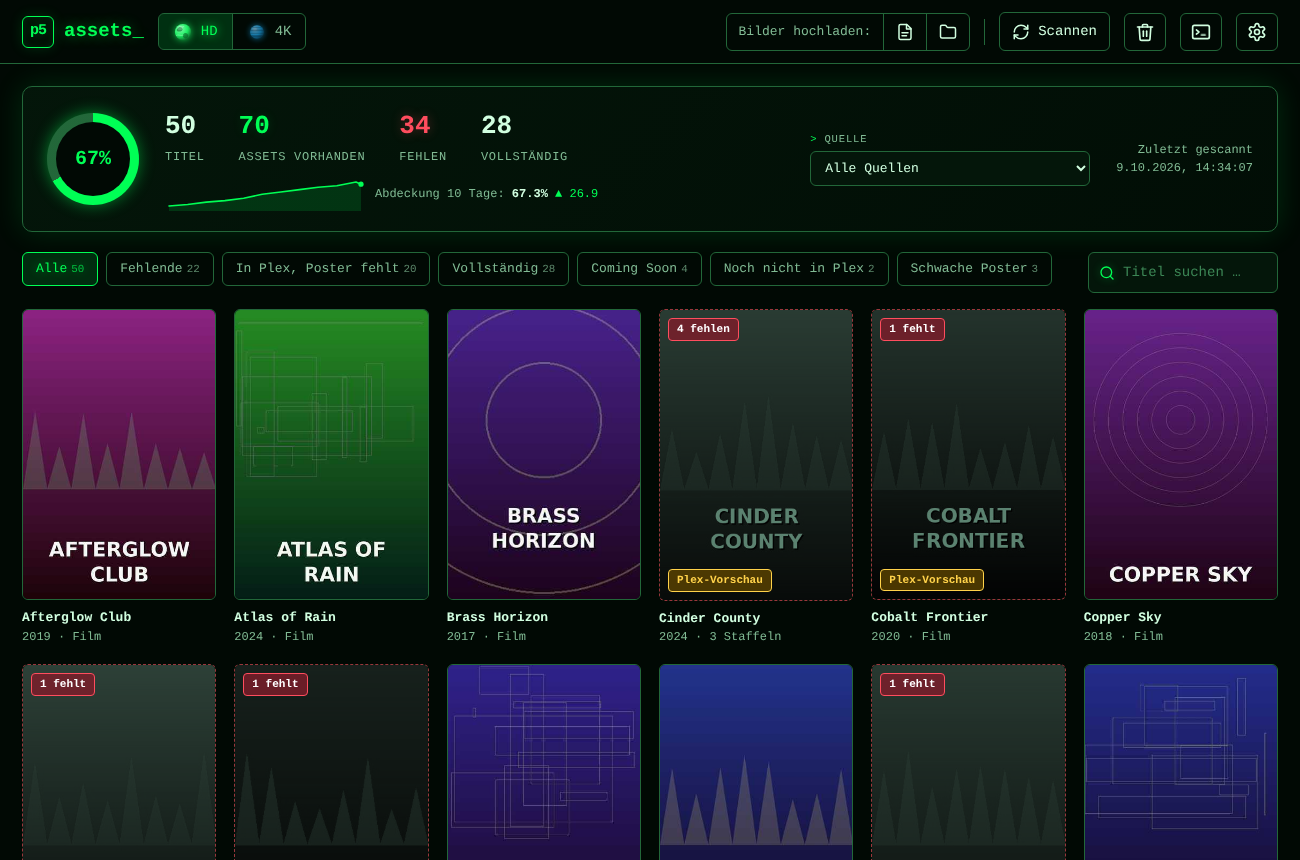
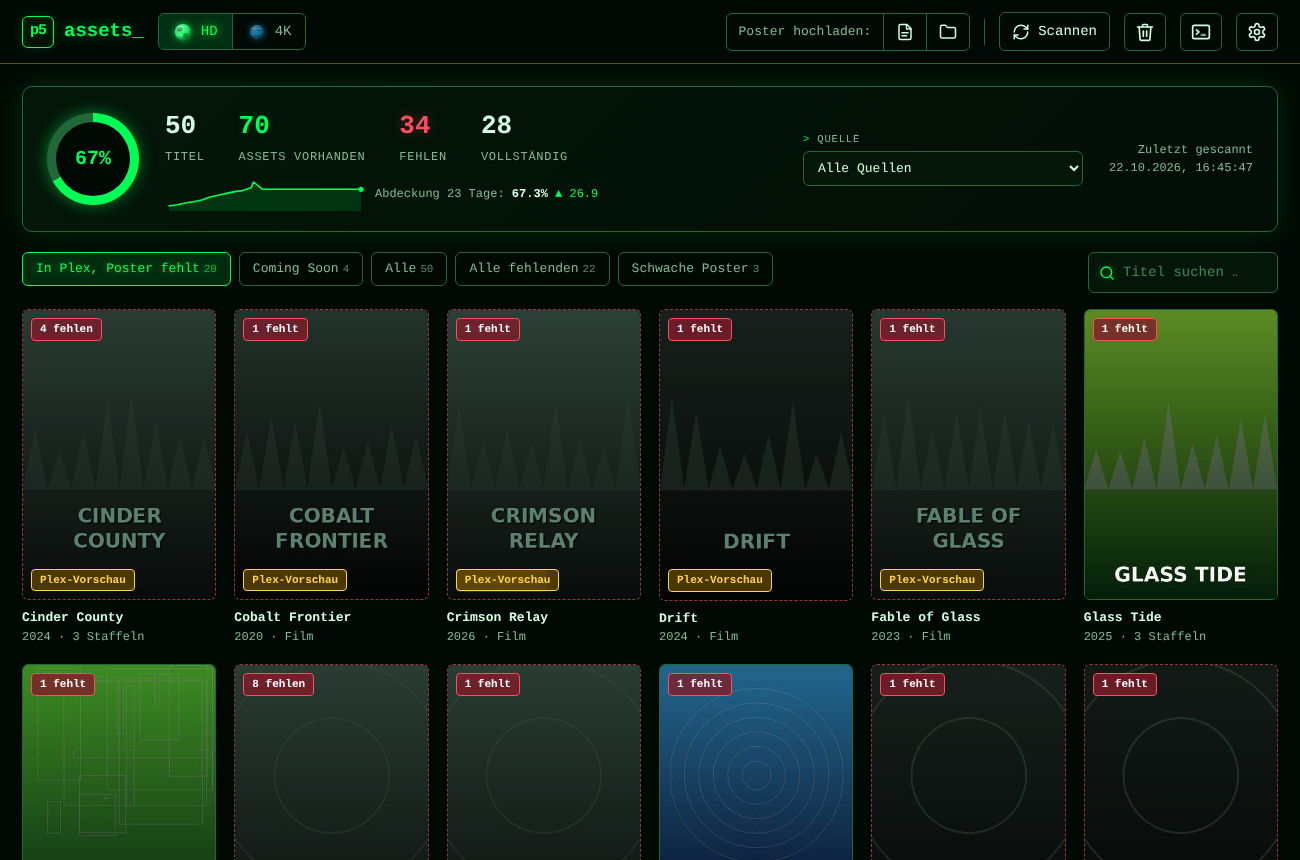
Version 0.5.0: neue README-Bilder und Animationen (fiktive Demo-Titel), CHANGELOG, Tag-Tabelle, News
Claude-Session: https://claude.ai/code/session_01JoFLcQEW7QhHAh66qJqz46

diff --git a/app/version.py b/app/version.py
@@ -3,7 +3,7 @@ from __future__ import annotations
 
 import os
 
-BASE_VERSION = "0.4.10"
+BASE_VERSION = "0.5.0"
 REPO = os.environ.get("P5_REPO", "https://github.com/p5lukas/p5assets").rstrip("/")
 
 

diff --git a/README.md b/README.md
@@ -62,6 +62,14 @@ und welche vorhandenen Bilder ersetzt würden.
 - Kacheln für Poster und **Season00 – Season50**, auch für Staffeln, die es noch nicht gibt
 - Poster per Drag & Drop auf eine andere Kachel **kopieren**, oder mit **„Auf alle …“** auf mehrere Kacheln übertragen
 - **Plex-Collections:** Filme zeigen ihre Collection in der Vorschau; ein Klick öffnet die Detailansicht der Collection mit allen Postern (ersetzen, hochladen, Set-Upload). Beim Import werden Filme nach Plex-Collection gruppiert und p5assets sagt, welche Filme der Collection danach noch ohne Poster sind. Dateien wie „… Collection“ ordnet der Import nicht automatisch einem Film zu; große Sammel-Collections, die keine Filmreihen sind, lassen sich ausblenden (Einstellungen → Bibliotheken zeigt und holt sie zurück)
+
+<table>
+<tr>
+<td width="50%"><img src="docs/images/collection-preview.png" alt="Vorschau mit Collections"><br><sub>Die Vorschau nennt die Plex-Collections des Films</sub></td>
+<td width="50%"><img src="docs/images/collection.png" alt="Collection-Detailansicht"><br><sub>Detailansicht: alle Poster der Collection, fehlende sofort ersetzbar</sub></td>
+</tr>
+</table>
+
 - **Herunterladen** in Originalqualität: einzelne Poster oder eine Auswahl als ZIP (auf iPhone/iPad öffnet sich das Original in p5assets: Bild lange drücken → „Zu Fotos hinzufügen“)
 
 ### Online-Suche
@@ -165,7 +173,7 @@ Aus dem Quellcode: `docker compose up -d --build`.
 |---|---|---|
 | `:dev` | Branch `dev` | Neues testen |
 | `:latest` | Branch `main` | stabil |
-| `:0.4.0` | Git-Tag `v0.4.0` | feste Version (aktuell `0.4.0`, `1.0.0` erst bei ausgereiftem Stand) |
+| `:0.5.0` | Git-Tag `v0.5.0` | feste Version (aktuell `0.5.0`, `1.0.0` erst bei ausgereiftem Stand) |
 | `:sha-…` | jeder Build | Fehlersuche |
 
 Solange p5assets in der Entwicklung ist, nutzen Template und Compose-Datei `:dev`. Sobald alles stabil läuft,

diff --git a/CHANGELOG.md b/CHANGELOG.md
@@ -1,5 +1,21 @@
 # Änderungen
 
+## 0.5.0 – 2026-10-22
+
+Sammel-Version der Serie 0.4.1 – 0.4.10 (Details siehe unten).
+
+**Neu**
+- **Plex-Collections:** Die Poster-Vorschau eines Films nennt seine Collection; ein Klick öffnet die Detailansicht der Collection mit allen Postern (ersetzen, hochladen, Set-Upload, ausblenden). Der Import gruppiert Filme nach Plex-Collection und prüft, welche Filme danach noch ohne Poster sind; Collection-Poster („… Collection“) werden nicht automatisch einem Film zugeordnet
+- **Startansicht „In Plex, Poster fehlt“**, Reiter aufgeräumt („Alle fehlenden“; „Vollständig“, „Collections“ und „Noch nicht in Plex“ entfallen)
+- **Einstellungen und Onboarding** mit Seitenleiste (Desktop) bzw. als Liste mit Gruppen und „Schritt x von y“ (iPhone/iPad)
+- Tastaturkürzel (`/`, `Esc`, `←`/`→`), Logo führt zur Startseite, kürzerer Update-Hinweis mit nach Version gruppierter Liste unter „Neuigkeiten“
+- Neues App-Icon (orange Flammen-Komet) in allen Größen
+
+**Geändert**
+- Die Suche durchsucht immer alle Titel der Welt; „Bilder hochladen“ heißt „Poster hochladen“
+- Kein Flackern mehr beim Schließen der Detailansicht (unveränderte Kacheln werden wiederverwendet)
+- Alle README-Bilder und Animationen neu (fiktive Demo-Titel)
+
 ## 0.4.10 – 2026-10-18
 
 **Behoben**
